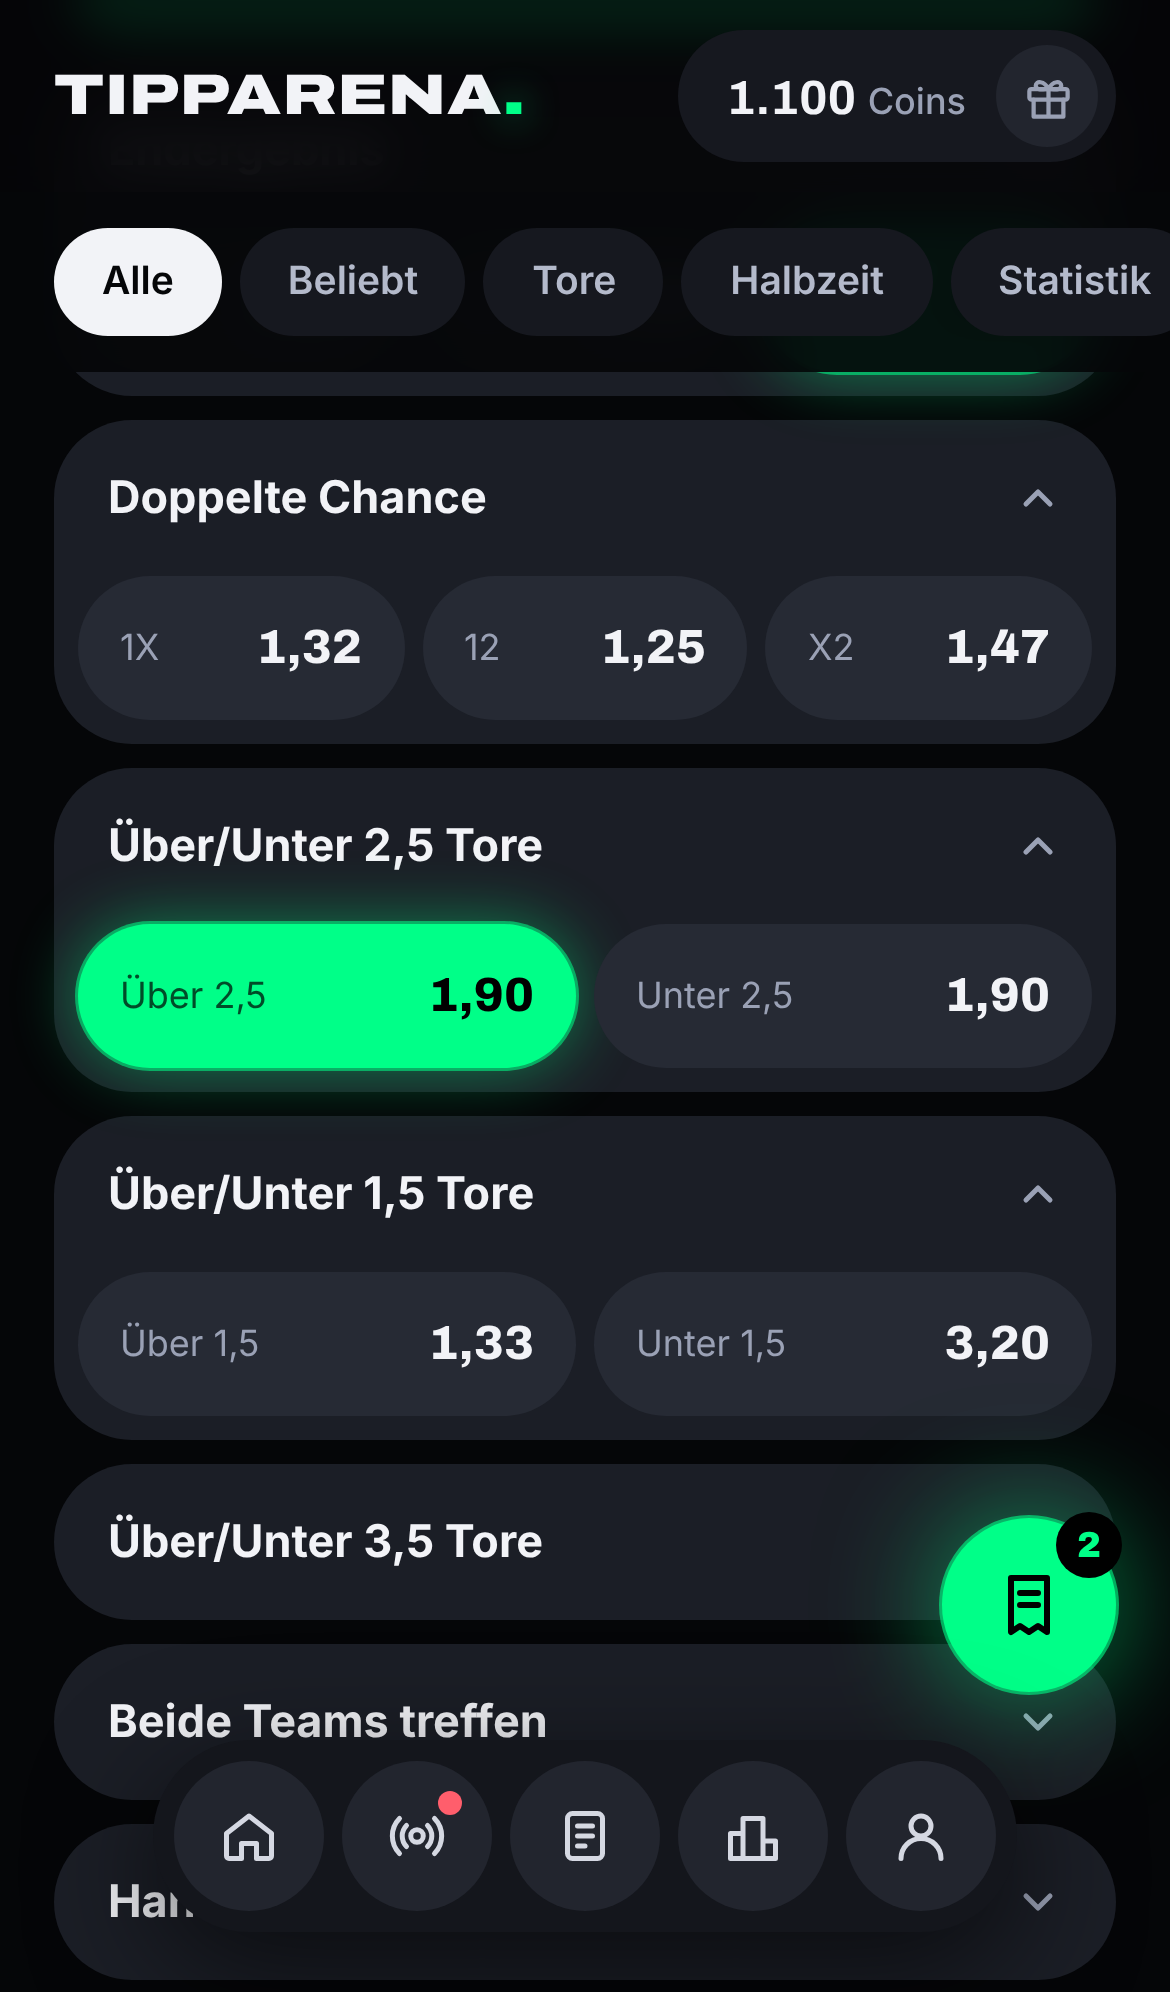
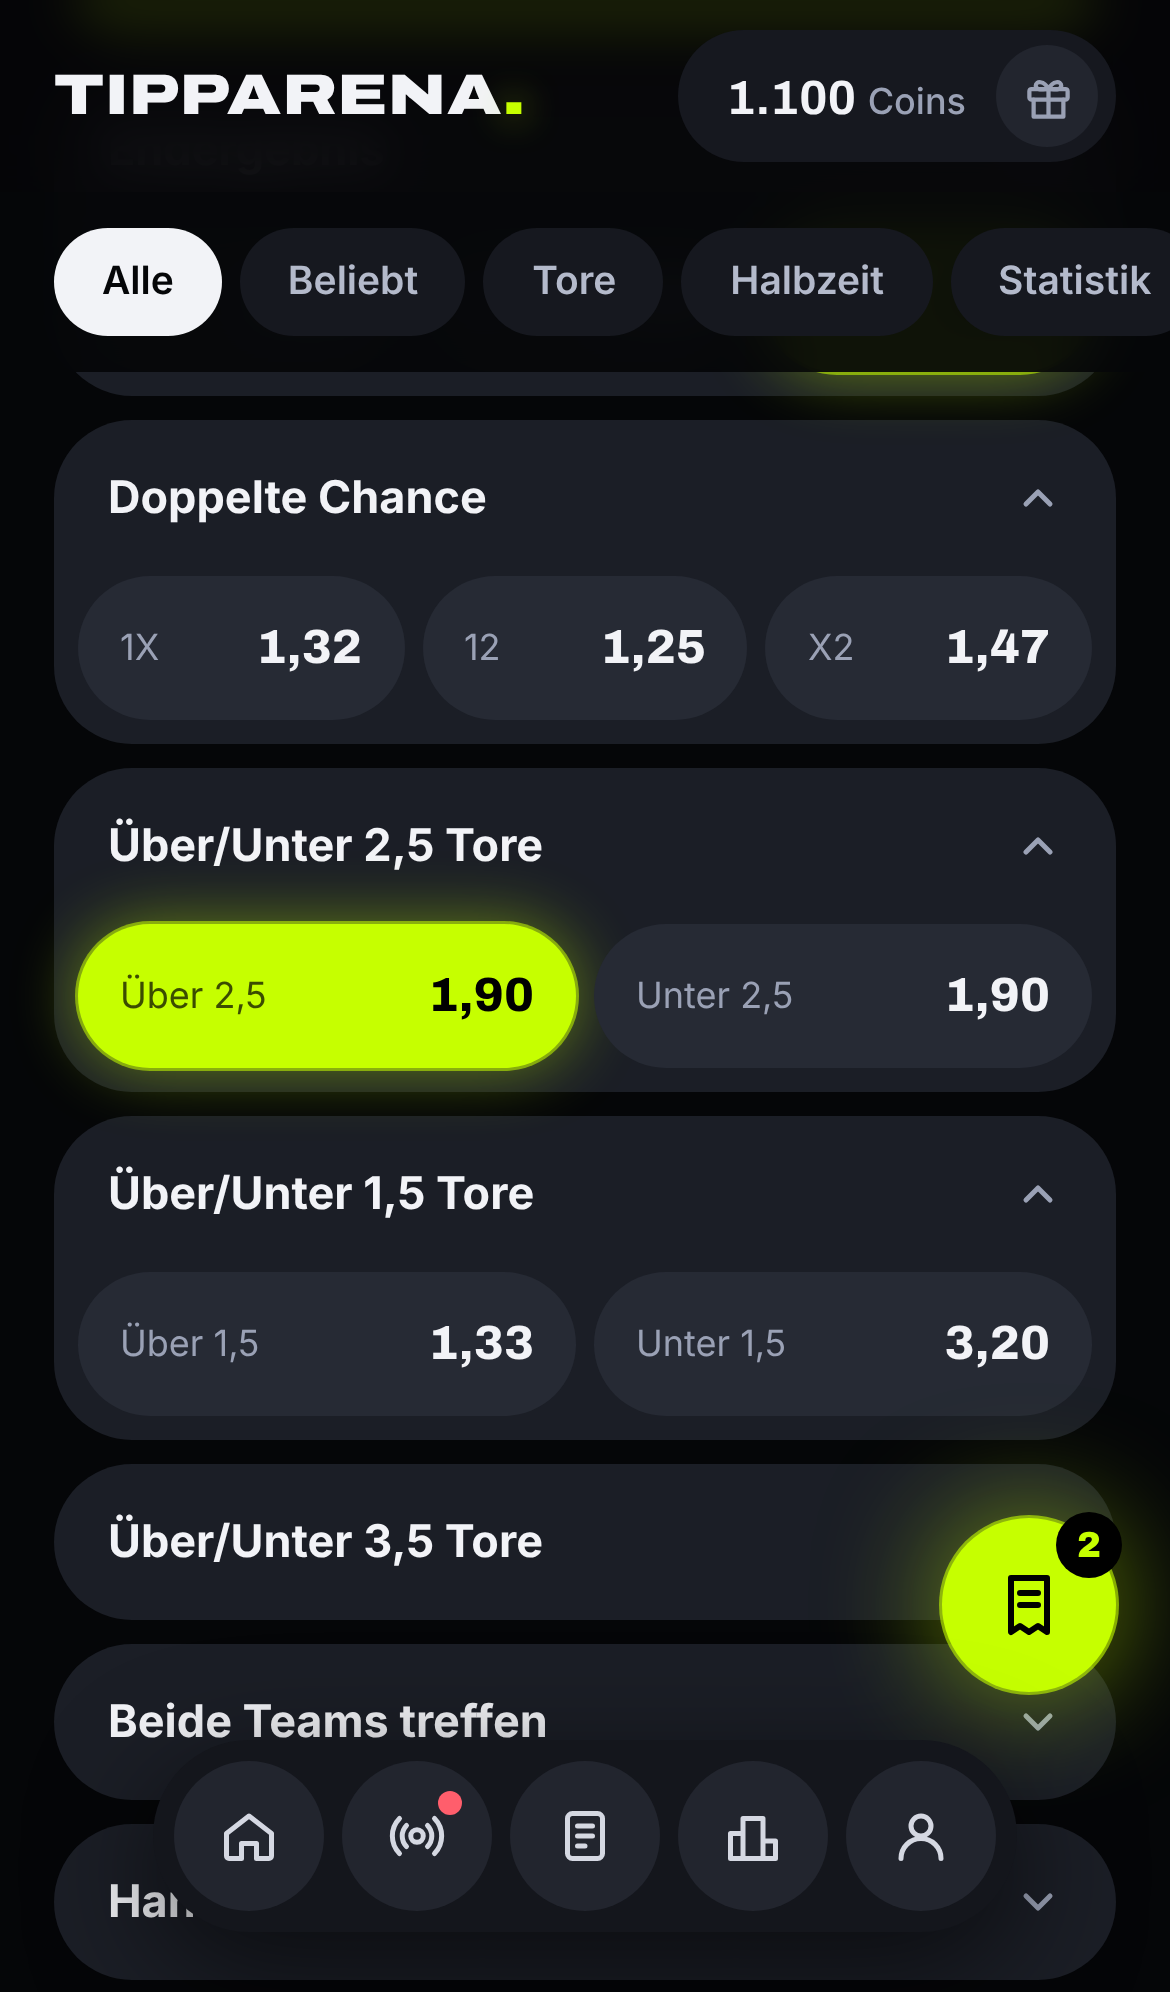
TippArena: Akzent Neon-Lime (#C6FF00) statt Neon-Gruen
Claude-Session: https://claude.ai/code/session_01PXKsHhaWzrex422v9P7TcF

Changed region(s): [[0.0615, 0.4357, 0.5231, 0.5602], [0.7692, 0.747, 0.9846, 0.8715], [0.6769, 0.1867, 0.8923, 0.2179]]

diff --git a/tippspiel/app/src/screens/Other.tsx b/tippspiel/app/src/screens/Other.tsx
@@ -188,7 +188,7 @@ export function Leaderboard() {
               const first = r.rank === 1;
               return (
                 <div key={r.username} className="min-w-0">
-                  {first && <svg width="22" height="16" viewBox="0 0 24 16" aria-hidden="true" className="mx-auto mb-1"><path d="M2 14 4 3l5 5 3-7 3 7 5-5 2 11Z" fill="#00FF88" /></svg>}
+                  {first && <svg width="22" height="16" viewBox="0 0 24 16" aria-hidden="true" className="mx-auto mb-1"><path d="M2 14 4 3l5 5 3-7 3 7 5-5 2 11Z" fill="#C6FF00" /></svg>}
                   <span className={`font-num mx-auto grid place-items-center rounded-full font-black ${first ? 'h-14 w-14 bg-acc text-[18px] text-black shadow-neon' : 'h-12 w-12 bg-s3 text-[16px] text-ink'}`}>{r.username[0]?.toUpperCase()}</span>
                   <div className="mt-1.5 truncate text-[13px] font-bold">{r.isMe ? 'Du' : r.username}</div>
                   <div className="font-num text-[14px] font-extrabold text-acc">{r.profit >= 0 ? '+' : '−'}{fmtCoins(Math.abs(r.profit))}</div>
@@ -307,16 +307,16 @@ export function Profile() {
         </div>
       </div>
 
-      <div className="relative mt-4 overflow-hidden rounded-[28px] bg-lav p-[18px] text-[#00200F]">
+      <div className="relative mt-4 overflow-hidden rounded-[28px] bg-lav p-[18px] text-[#1A2000]">
         <div aria-hidden="true" className="absolute -bottom-16 -right-10 h-[190px] w-[190px] rounded-full bg-lav2" />
-        <div className="relative text-[13px] font-semibold text-[#004D27]">Guthaben · Spielgeld</div>
-        <div className="relative font-num text-[44px] font-black leading-none"><Coins value={wallet.balance} /> <span className="font-sans text-[15px] font-semibold text-[#004D27]">Coins</span></div>
+        <div className="relative text-[13px] font-semibold text-[#3D4D00]">Guthaben · Spielgeld</div>
+        <div className="relative font-num text-[44px] font-black leading-none"><Coins value={wallet.balance} /> <span className="font-sans text-[15px] font-semibold text-[#3D4D00]">Coins</span></div>
         <div className="relative mt-4 flex gap-2">
-          <button onClick={() => backend.claimDailyBonus()} className="flex h-12 flex-1 items-center justify-center gap-2 rounded-full bg-[#00200F] text-[14px] font-bold text-white">{Icon.gift('w-4 h-4')} Bonus +100</button>
+          <button onClick={() => backend.claimDailyBonus()} className="flex h-12 flex-1 items-center justify-center gap-2 rounded-full bg-[#1A2000] text-[14px] font-bold text-white">{Icon.gift('w-4 h-4')} Bonus +100</button>
           <button onClick={() => backend.claimRefill()} disabled={wallet.balance > 0}
-            className={`h-12 flex-1 rounded-full text-[14px] font-bold ${wallet.balance > 0 ? 'bg-black/15 text-[#004D27]' : 'bg-black text-acc'}`}>Auf 500 füllen</button>
+            className={`h-12 flex-1 rounded-full text-[14px] font-bold ${wallet.balance > 0 ? 'bg-black/15 text-[#3D4D00]' : 'bg-black text-acc'}`}>Auf 500 füllen</button>
         </div>
-        <p className="relative mt-3 text-[12px] text-[#004D27]">Nachfüllen geht bei 0 Coins, höchstens 1× pro Woche. Coins kann man nicht kaufen.</p>
+        <p className="relative mt-3 text-[12px] text-[#3D4D00]">Nachfüllen geht bei 0 Coins, höchstens 1× pro Woche. Coins kann man nicht kaufen.</p>
       </div>
 
       <h2 className="mb-3 mt-7 text-[22px] font-bold tracking-tight">Statistik</h2>
@@ -329,7 +329,7 @@ export function Profile() {
           ['Wetten', String(stats.betsTotal)],
           ['Davon offen', String(stats.betsOpen)],
         ].map(([k, v]) => (
-          <div key={k} className="rounded-[22px] border border-line bg-s1 p-3.5"><div className="text-[12px] text-mute">{k}</div><div className="font-num mt-1 truncate text-[20px] font-extrabold text-[#7DFFBE]">{v}</div></div>
+          <div key={k} className="rounded-[22px] border border-line bg-s1 p-3.5"><div className="text-[12px] text-mute">{k}</div><div className="font-num mt-1 truncate text-[20px] font-extrabold text-[#E2FF7A]">{v}</div></div>
         ))}
       </div>
 

diff --git a/tippspiel/app/src/screens/Home.tsx b/tippspiel/app/src/screens/Home.tsx
@@ -29,16 +29,16 @@ function Teaser() {
         {slides.map((s, idx) => (
           <div key={idx} className="w-full shrink-0 snap-center">
             {s.kind === 'boost' && s.ev ? (
-              <div className="relative h-[170px] overflow-hidden rounded-[26px] bg-lav p-[18px] text-[#00200F]">
+              <div className="relative h-[170px] overflow-hidden rounded-[26px] bg-lav p-[18px] text-[#1A2000]">
                 <div aria-hidden="true" className="absolute -bottom-16 -right-8 h-[210px] w-[210px] rounded-full bg-lav2" />
                 <div aria-hidden="true" className="absolute right-6 top-5 grid h-[88px] w-[88px] place-items-center rounded-full bg-black text-acc">{Icon.boost('w-11 h-11')}</div>
                 <div className="relative">
                   <div className="font-wide text-[24px] font-black leading-none">BOOST<br />DES TAGES</div>
-                  <div className="mt-3 inline-flex max-w-[200px] items-center gap-1.5 truncate rounded-full bg-[#00200F] px-2.5 py-1 text-[11px] font-bold uppercase text-white">
+                  <div className="mt-3 inline-flex max-w-[200px] items-center gap-1.5 truncate rounded-full bg-[#1A2000] px-2.5 py-1 text-[11px] font-bold uppercase text-white">
                     {s.ev.home} <span className="text-acc-hi">vs</span> {s.ev.away}
                   </div>
                   <div className="mt-3 flex items-center gap-2.5">
-                    <span className="font-num text-[15px] text-[#007A3E] line-through">{fmtOdds(s.b.original)}</span>
+                    <span className="font-num text-[15px] text-[#5E7A00] line-through">{fmtOdds(s.b.original)}</span>
                     <span className="font-num text-[30px] font-black leading-none">{fmtOdds(s.b.boosted)}</span>
                     {(() => {
                       const on = slipIds.split(',').includes(s.b.outcomeId);
@@ -51,7 +51,7 @@ function Teaser() {
                 </div>
               </div>
             ) : s.kind === 'group' ? (
-              <Link to="/rangliste" className="relative block h-[170px] overflow-hidden rounded-[26px] bg-card p-[18px] text-ink shadow-[inset_0_0_0_1px_rgba(0,255,136,.35)]">
+              <Link to="/rangliste" className="relative block h-[170px] overflow-hidden rounded-[26px] bg-card p-[18px] text-ink shadow-[inset_0_0_0_1px_rgba(198,255,0,.35)]">
                 <div aria-hidden="true" className="absolute -bottom-16 -right-10 h-[200px] w-[200px] rounded-full bg-acc-lo" />
                 <div className="relative">
                   <div className="font-wide text-[24px] font-black leading-none">TIPP-<br />GRUPPEN</div>

diff --git a/tippspiel/app/src/screens/Event.tsx b/tippspiel/app/src/screens/Event.tsx
@@ -133,13 +133,13 @@ export default function EventPage() {
       </nav>
 
       {mine.length >= 2 && (
-        <div className="mx-[18px] mb-3 flex items-center justify-between gap-3 rounded-[26px] bg-lav py-3 pl-[18px] pr-3 text-[#00200F]">
+        <div className="mx-[18px] mb-3 flex items-center justify-between gap-3 rounded-[26px] bg-lav py-3 pl-[18px] pr-3 text-[#1A2000]">
           <div className="min-w-0">
-            <div className="text-[11px] font-extrabold uppercase tracking-wider text-[#00401F]">Wetten-Konfigurator</div>
+            <div className="text-[11px] font-extrabold uppercase tracking-wider text-[#2F3D00]">Wetten-Konfigurator</div>
             <div className="text-[13px] font-medium">{onlyThisEvent ? `${mine.length} Tipps aus diesem Spiel` : 'Nur Tipps aus diesem Spiel im Schein lassen'}</div>
           </div>
-          <button onClick={() => slipStore.setOpen(true)} className="flex h-12 shrink-0 items-center gap-2 rounded-full bg-[#00200F] px-4 text-[14px] font-bold text-white">
-            Quote <span className="font-num text-[17px] text-[#7DFFBE]">{fmtOdds(builderOdds(mine.map((i) => i.price)))}</span>
+          <button onClick={() => slipStore.setOpen(true)} className="flex h-12 shrink-0 items-center gap-2 rounded-full bg-[#1A2000] px-4 text-[14px] font-bold text-white">
+            Quote <span className="font-num text-[17px] text-[#E2FF7A]">{fmtOdds(builderOdds(mine.map((i) => i.price)))}</span>
           </button>
         </div>
       )}

diff --git a/tippspiel/app/src/components/Slip.tsx b/tippspiel/app/src/components/Slip.tsx
@@ -180,13 +180,13 @@ export function SlipSheet() {
                 </label>
               </div>
 
-              <div className="flex items-center justify-between gap-3 rounded-[26px] bg-black py-4 pl-5 pr-4 text-ink shadow-[inset_0_0_0_1px_rgba(0,255,136,.35)]">
+              <div className="flex items-center justify-between gap-3 rounded-[26px] bg-black py-4 pl-5 pr-4 text-ink shadow-[inset_0_0_0_1px_rgba(198,255,0,.35)]">
                 <div className="min-w-0">
                   <div className="text-[12px] text-mute">
                     {calc.label}{calc.odds !== null && <> · Quote <b className="font-num text-ink">{fmtOdds(calc.odds)}</b></>}
                   </div>
                   <div className="text-[12px] text-mute">Möglicher Gewinn</div>
-                  <div className="font-num text-[32px] font-black leading-none text-acc [text-shadow:0_0_18px_rgba(0,255,136,.55)]"><Coins value={calc.potential} /> <span className="font-sans text-[13px] font-semibold text-mute">Coins</span></div>
+                  <div className="font-num text-[32px] font-black leading-none text-acc [text-shadow:0_0_18px_rgba(198,255,0,.55)]"><Coins value={calc.potential} /> <span className="font-sans text-[13px] font-semibold text-mute">Coins</span></div>
                 </div>
                 {needLogin ? (
                   <button onClick={() => { slipStore.setOpen(false); nav('/profil'); }}

diff --git a/tippspiel/app/tailwind.config.js b/tippspiel/app/tailwind.config.js
@@ -4,7 +4,7 @@ export default {
   theme: {
     extend: {
       colors: {
-        // 60 % Schwarz · 30 % Anthrazit · 10 % Neon-Grün
+        // 60 % Schwarz · 30 % Anthrazit · 10 % Neon-Lime
         bg: '#050608',
         s1: '#101217',
         s2: '#16181F',
@@ -12,7 +12,7 @@ export default {
         line: '#1C1F27',
         ink: '#F2F3F7',
         mute: '#9AA1B5',
-        acc: { DEFAULT: '#00FF88', hi: '#7DFFBE', lo: '#00331B' },
+        acc: { DEFAULT: '#C6FF00', hi: '#E2FF7A', lo: '#2A3600' },
         boost: '#FF6B8A',
         up: '#3DF29A',
         down: '#FF5E6C',
@@ -25,13 +25,13 @@ export default {
         cmute: '#9AA1B5',
         mint: '#0E2A20',
         rose: '#2D1218',
-        lav: '#00FF88',
-        lav2: '#00CC6D',
+        lav: '#C6FF00',
+        lav2: '#9ECC00',
         warn: '#2A2410',
       },
       boxShadow: {
-        neon: '0 0 0 1px rgba(0,255,136,.55), 0 0 22px rgba(0,255,136,.45)',
-        neonlg: '0 0 0 1px rgba(0,255,136,.6), 0 0 40px rgba(0,255,136,.55)',
+        neon: '0 0 0 1px rgba(198,255,0,.55), 0 0 22px rgba(198,255,0,.45)',
+        neonlg: '0 0 0 1px rgba(198,255,0,.6), 0 0 40px rgba(198,255,0,.55)',
       },
       fontFamily: { sans: ['Inter', 'system-ui', 'sans-serif'], num: ['Archivo', 'Inter', 'sans-serif'] },
       keyframes: {

diff --git a/tippspiel/app/src/App.tsx b/tippspiel/app/src/App.tsx
@@ -31,7 +31,7 @@ export default function App() {
   return (
     <div className="mx-auto min-h-screen max-w-md bg-bg">
       <header className="sticky top-0 z-20 flex h-16 items-center justify-between bg-bg/90 px-[18px] backdrop-blur" style={{ paddingTop: 'env(safe-area-inset-top)' }}>
-        <NavLink to="/" className="font-wide text-[19px] font-black tracking-wide text-ink">TIPPARENA<span className="text-acc [text-shadow:0_0_12px_rgba(0,255,136,.8)]">.</span></NavLink>
+        <NavLink to="/" className="font-wide text-[19px] font-black tracking-wide text-ink">TIPPARENA<span className="text-acc [text-shadow:0_0_12px_rgba(198,255,0,.8)]">.</span></NavLink>
         {(user || !backend.requiresLogin) && (
           <div className="flex h-11 items-center gap-2.5 rounded-full bg-s2 pl-4 pr-1.5">
             <NavLink to="/profil" className="text-[16px] font-bold text-ink">
